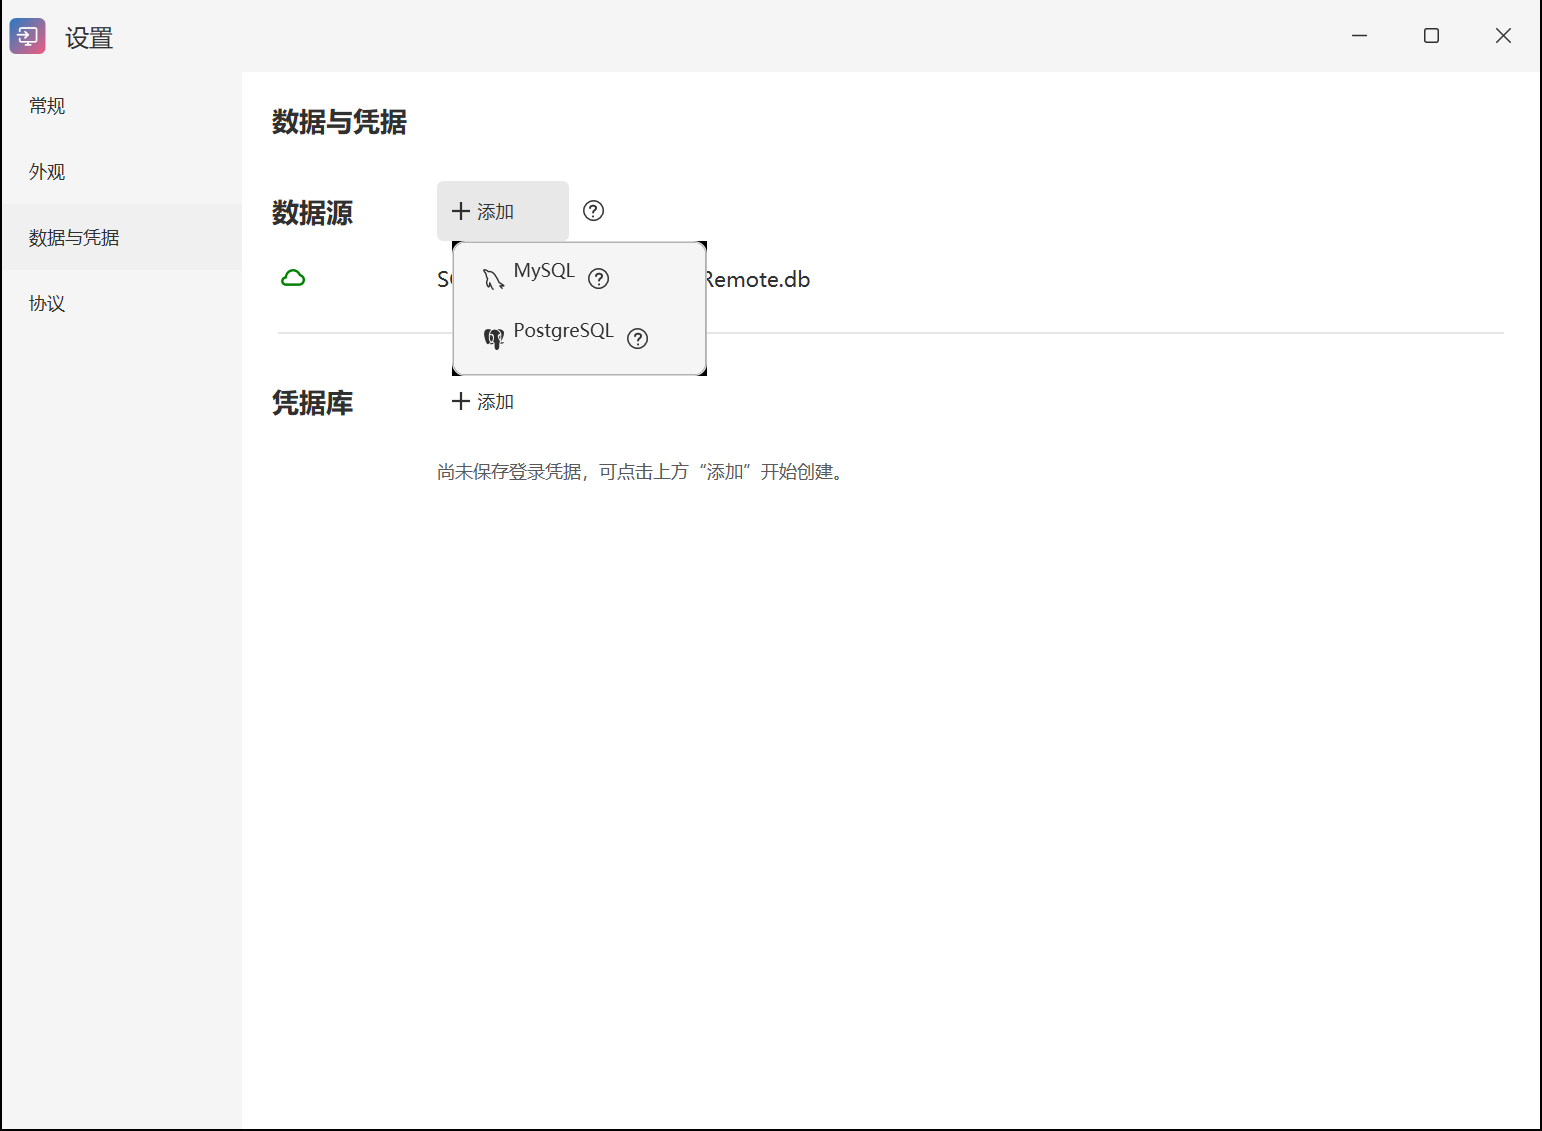
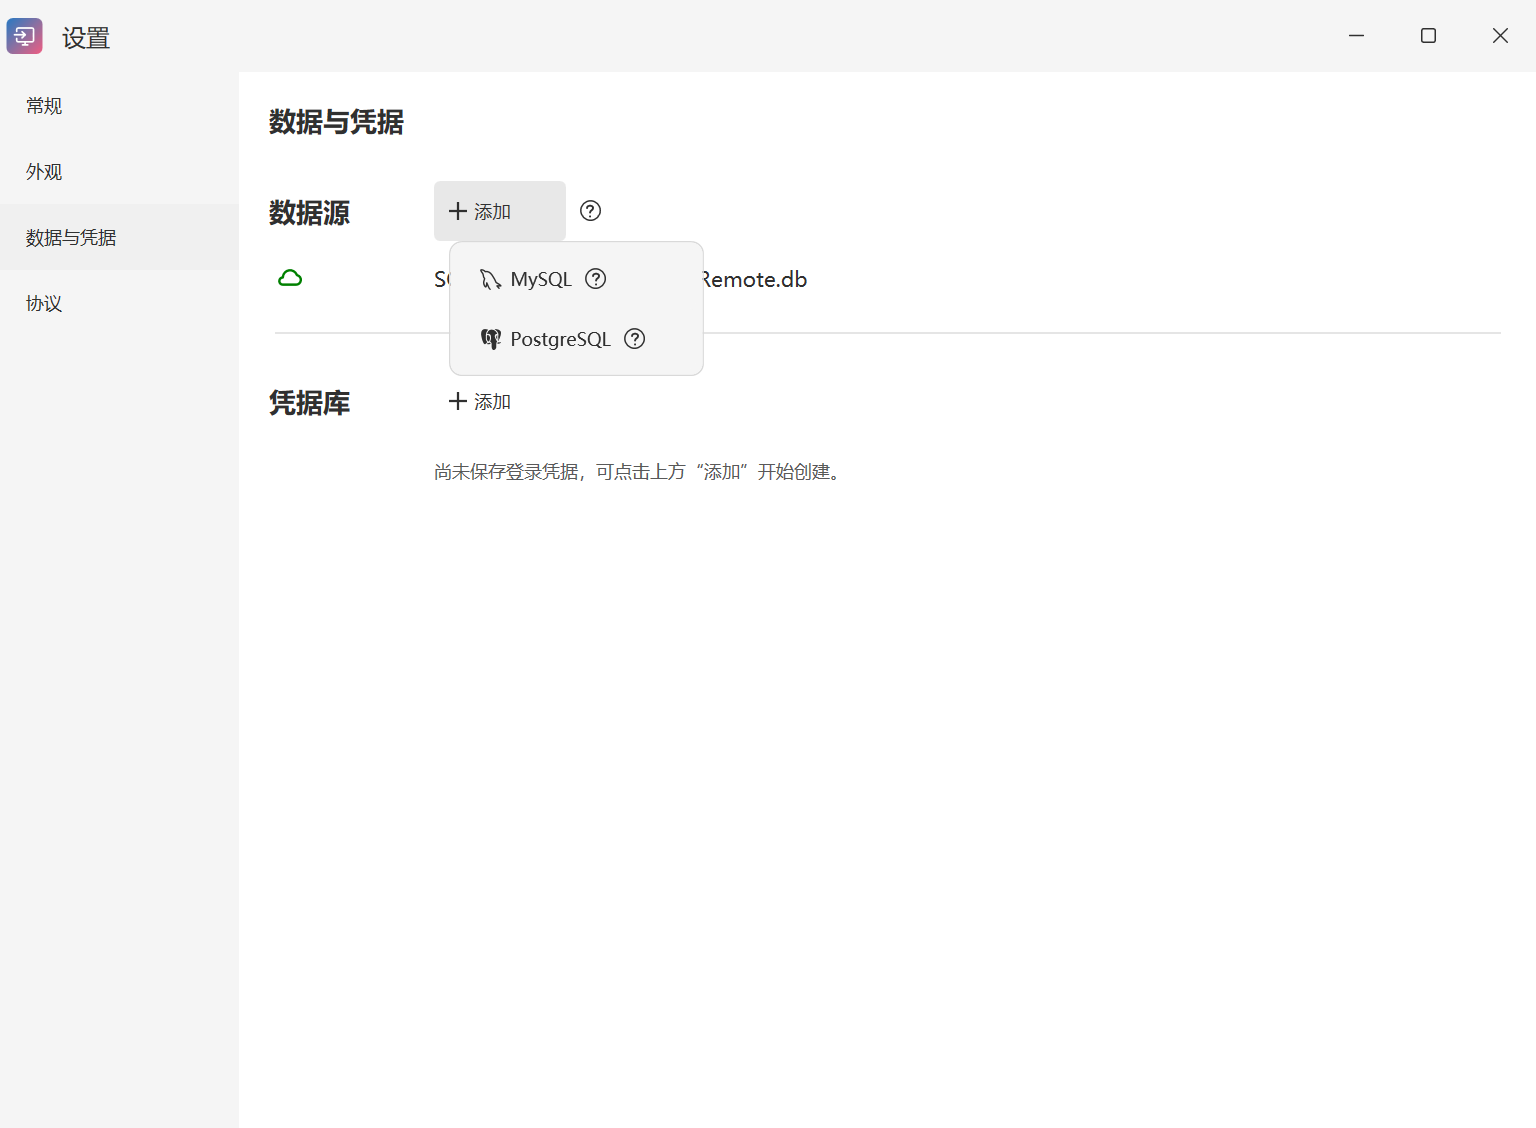
fix: clean documentation screenshots and compact information dialogs [skip netlify]

diff --git a/Ui/View/Settings/ProtocolConfig/ProtocolHelpWindowView.xaml b/Ui/View/Settings/ProtocolConfig/ProtocolHelpWindowView.xaml
@@ -2,17 +2,17 @@
         xmlns="http://schemas.microsoft.com/winfx/2006/xaml/presentation"
         xmlns:x="http://schemas.microsoft.com/winfx/2006/xaml"
         xmlns:branding="clr-namespace:_1RM.Controls"
-        Width="560" MinWidth="480" MaxHeight="560" SizeToContent="Height"
+        Width="420" MinWidth="360" MaxWidth="640" MaxHeight="560" SizeToContent="Height"
         ResizeMode="NoResize" ShowInTaskbar="False" WindowStartupLocation="CenterOwner"
         Background="{DynamicResource PrimaryMidBrush}" Title="{DynamicResource Info}">
     <Window.Template><ControlTemplate TargetType="Window"><AdornerDecorator><ContentPresenter /></AdornerDecorator></ControlTemplate></Window.Template>
     <Grid Background="{DynamicResource PrimaryMidBrush}">
-        <Grid.RowDefinitions><RowDefinition x:Name="CaptionRow" Height="48" /><RowDefinition Height="Auto" /><RowDefinition Height="Auto" /></Grid.RowDefinitions>
+        <Grid.RowDefinitions><RowDefinition x:Name="CaptionRow" Height="48" /><RowDefinition Height="Auto" /></Grid.RowDefinitions>
         <Grid x:Name="CaptionArea" Background="{DynamicResource PrimaryMidBrush}">
             <branding:WindowCaptionTitle Text="{DynamicResource Info}" />
         </Grid>
         <Border x:Name="CaptionReserve" Width="0" HorizontalAlignment="Right" />
-        <Border Grid.Row="1" Background="{DynamicResource BackgroundBrush}" Padding="24,20,24,12">
+        <Border x:Name="MappingBody" Grid.Row="1" Background="{DynamicResource BackgroundBrush}" Padding="24,20">
         <ScrollViewer MaxHeight="380"
                       VerticalScrollBarVisibility="Auto" HorizontalScrollBarVisibility="Disabled">
             <ItemsControl x:Name="MappingRows" ItemsSource="{Binding Entries}" Grid.IsSharedSizeScope="True">
@@ -26,10 +26,6 @@
                 </DataTemplate></ItemsControl.ItemTemplate>
             </ItemsControl>
         </ScrollViewer>
-        </Border>
-        <Border Grid.Row="2" Background="{DynamicResource BackgroundBrush}" Padding="24,8,24,20">
-            <Button x:Name="ConfirmButton" Content="{DynamicResource OK}" IsDefault="True" MinWidth="88" MinHeight="32"
-                    Style="{StaticResource FormActionButtonStyle}" HorizontalAlignment="Right" Click="Confirm_OnClick" />
         </Border>
     </Grid>
 </Window>

diff --git a/Ui/View/Settings/DataSource/DataSourceView.xaml b/Ui/View/Settings/DataSource/DataSourceView.xaml
@@ -221,8 +221,9 @@
                     <MenuItem Command="{Binding CmdAdd}" CommandParameter="MySQL">
                         <MenuItem.Header>
                             <StackPanel Orientation="Horizontal">
-                                <TextBlock Text="MySQL"></TextBlock>
+                                <TextBlock Text="MySQL" VerticalAlignment="Center"></TextBlock>
                                 <uiText:ProtocolHelpButton Style="{StaticResource ProtocolHelpButtonStyle}" Margin="2,0"
+                                                           VerticalAlignment="Center"
                                                            NavigateUri="https://yuzhounh.github.io/xRemote/data-and-credentials/#online-database" />
                             </StackPanel>
                         </MenuItem.Header>
@@ -234,8 +235,9 @@
                     <MenuItem Command="{Binding CmdAdd}" CommandParameter="PostgreSQL">
                         <MenuItem.Header>
                             <StackPanel Orientation="Horizontal">
-                                <TextBlock Text="PostgreSQL"></TextBlock>
+                                <TextBlock Text="PostgreSQL" VerticalAlignment="Center"></TextBlock>
                                 <uiText:ProtocolHelpButton Style="{StaticResource ProtocolHelpButtonStyle}" Margin="2,0"
+                                                           VerticalAlignment="Center"
                                                            NavigateUri="https://yuzhounh.github.io/xRemote/data-and-credentials/#online-database" />
                             </StackPanel>
                         </MenuItem.Header>

diff --git a/Ui/View/Utils/MessageBoxPageView.xaml b/Ui/View/Utils/MessageBoxPageView.xaml
@@ -5,6 +5,9 @@
             <TextBlock Text="{Binding Text}" TextWrapping="Wrap" TextAlignment="{Binding TextAlignment}" Foreground="{DynamicResource BackgroundTextBrush}" />
         </ScrollViewer>
         <ItemsControl ItemsSource="{Binding ButtonList}" HorizontalAlignment="Right" Margin="0,20,0,0">
+            <ItemsControl.Style><Style TargetType="ItemsControl"><Style.Triggers>
+                <DataTrigger Binding="{Binding ShowButtons}" Value="False"><Setter Property="Visibility" Value="Collapsed" /></DataTrigger>
+            </Style.Triggers></Style></ItemsControl.Style>
             <ItemsControl.ItemsPanel><ItemsPanelTemplate><WrapPanel /></ItemsPanelTemplate></ItemsControl.ItemsPanel>
             <ItemsControl.ItemTemplate><DataTemplate>
                 <Button Content="{Binding Label}" MinWidth="88" MinHeight="32" Padding="14,6" Margin="8,0,0,0" Style="{StaticResource ButtonPrimaryStyle}"

diff --git a/Ui/View/Utils/MessageBoxPageViewModel.cs b/Ui/View/Utils/MessageBoxPageViewModel.cs
@@ -115,6 +115,9 @@ namespace _1RM.View.Utils
             this.Text = messageBoxText;
             this.DisplayName = string.IsNullOrWhiteSpace(caption) ? UiText.Get("Info") : caption;
             this.Icon = icon;
+            ShowButtons = buttons != MessageBoxButton.OK
+                || icon is not (MessageBoxImage.None or MessageBoxImage.Information)
+                || buttonLabels?.Count > 0;
             var buttonList = new BindableCollection<LabelledValue<MessageBoxResult>>();
             this.ButtonList = buttonList;
             foreach (var val in ButtonToResults[buttons])
@@ -154,6 +157,8 @@ namespace _1RM.View.Utils
         /// Gets or sets the list of buttons which are shown in the View.
         /// </summary>
         public IObservableCollection<LabelledValue<MessageBoxResult>>? ButtonList { get; protected set; }
+
+        public bool ShowButtons { get; private set; } = true;
 
         /// <summary>
         /// Gets or sets the item in ButtonList which is the Default button

diff --git a/Ui/View/Utils/CompactDialogSizing.cs b/Ui/View/Utils/CompactDialogSizing.cs
@@ -1,0 +1,23 @@
+using System;
+using System.Windows;
+
+namespace _1RM.View.Utils;
+
+// Measure only the body: native caption controls must not force short prompts wide.
+internal static class CompactDialogSizing
+{
+    internal static void Fit(Window window, FrameworkElement body)
+    {
+        double frame = window.Content is FrameworkElement root
+            ? Math.Max(0, window.ActualWidth - root.ActualWidth) : 0;
+        double maximum = Math.Min(640, Math.Min(window.MaxWidth, SystemParameters.WorkArea.Width - 32));
+        double minimum = Math.Min(window.MinWidth, maximum);
+        body.InvalidateMeasure();
+        body.Measure(new Size(double.PositiveInfinity, double.PositiveInfinity));
+        double width = Math.Clamp(body.DesiredSize.Width + frame, minimum, maximum);
+        double left = window.Left + (window.ActualWidth - width) / 2;
+        window.Width = width;
+        if (double.IsFinite(left)) window.Left = left;
+        window.UpdateLayout();
+    }
+}

diff --git a/Ui/View/Utils/MessageBoxView.xaml.cs b/Ui/View/Utils/MessageBoxView.xaml.cs
@@ -4,7 +4,23 @@ namespace _1RM.View.Utils;
 
 public partial class MessageBoxView : DialogWindowBase
 {
-    public MessageBoxView() => InitializeComponent();
+    public MessageBoxView()
+    {
+        InitializeComponent();
+        ContentRendered += (_, _) =>
+        {
+            if (DialogContent is FrameworkElement body) CompactDialogSizing.Fit(this, body);
+        };
+    }
+
+    protected override void OnKeyDown(System.Windows.Input.KeyEventArgs e)
+    {
+        base.OnKeyDown(e);
+        var page = DataContext is MessageBoxViewModel model ? model.PageViewModel : DataContext as MessageBoxPageViewModel;
+        if (e.Handled || e.Key != System.Windows.Input.Key.Enter || page?.ShowButtons != false) return;
+        e.Handled = true;
+        OnDialogClose();
+    }
 
     protected override void OnDialogClose()
     {

diff --git a/Ui/View/Settings/ProtocolConfig/ProtocolHelpWindowView.xaml.cs b/Ui/View/Settings/ProtocolConfig/ProtocolHelpWindowView.xaml.cs
@@ -19,14 +19,13 @@ public partial class ProtocolHelpWindowView : Window
         InitializeComponent();
         DataContext = this;
         _nativeTitleBar = new NativeMainTitleBar(this, CaptionRow, CaptionArea, CaptionReserve, Close);
+        ContentRendered += (_, _) => CompactDialogSizing.Fit(this, MappingBody);
     }
-
-    private void Confirm_OnClick(object sender, RoutedEventArgs e) => Close();
 
     protected override void OnKeyDown(KeyEventArgs e)
     {
         base.OnKeyDown(e);
-        if (e.Key != Key.Escape || e.Handled) return;
+        if (e.Key is not (Key.Escape or Key.Enter) || e.Handled) return;
         e.Handled = true;
         Close();
     }

diff --git a/Ui/Utils/ThemedMessageBox.cs b/Ui/Utils/ThemedMessageBox.cs
@@ -62,8 +62,9 @@ public static class ThemedMessageBox
             if (action.IsDefault) defaultAction = action;
             action.Click += (_, _) => model.ButtonClicked(choice.Value); actions.Children.Add(action);
         }
-        body.Children.Add(actions); window.DialogContent = body;
-        if (defaultAction != null)
+        if (model.ShowButtons) body.Children.Add(actions);
+        window.DialogContent = body;
+        if (model.ShowButtons && defaultAction != null)
         {
             System.Windows.Input.FocusManager.SetFocusedElement(window, defaultAction);
             window.ContentRendered += (_, _) => defaultAction.Focus();

diff --git a/Ui/View/Utils/InputBoxView.xaml.cs b/Ui/View/Utils/InputBoxView.xaml.cs
@@ -4,7 +4,11 @@ namespace _1RM.View.Utils;
 
 public partial class InputBoxView : DialogWindowBase
 {
-    public InputBoxView() => InitializeComponent();
+    public InputBoxView()
+    {
+        InitializeComponent();
+        Width = 420;
+    }
     protected override void OnDialogClose()
     {
         if (DataContext is InputBoxViewModel { DialogResult: null } model) model.ButtonClicked(MessageBoxResult.Cancel);

diff --git a/docs/external-runners.md b/docs/external-runners.md
@@ -42,7 +42,7 @@ sftp://%1RM_USERNAME%@%1RM_HOSTNAME%:%1RM_PORT% /privatekey=%1RM_PRIVATE_KEY_PAT
 <a id="macros"></a>
 ## 参数宏
 
-点击参数输入区右侧的圆圈 **i**，查看该协议当前可用变量。圆圈 **？** 打开本文的配置说明。
+点击参数输入区右侧的圆圈 **i**，查看该协议当前可用变量。点击右上角 **×** 或按 **Esc** 关闭说明窗口。圆圈 **？** 打开本文的配置说明。
 
 [![应用内参数说明窗口](images/runner-macros.png)](images/runner-macros.png)
 
